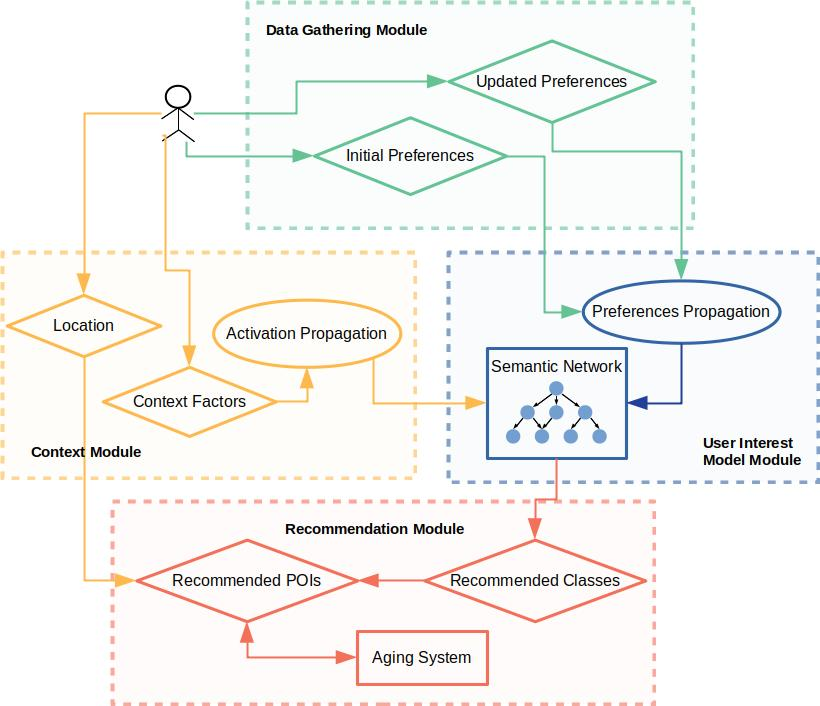
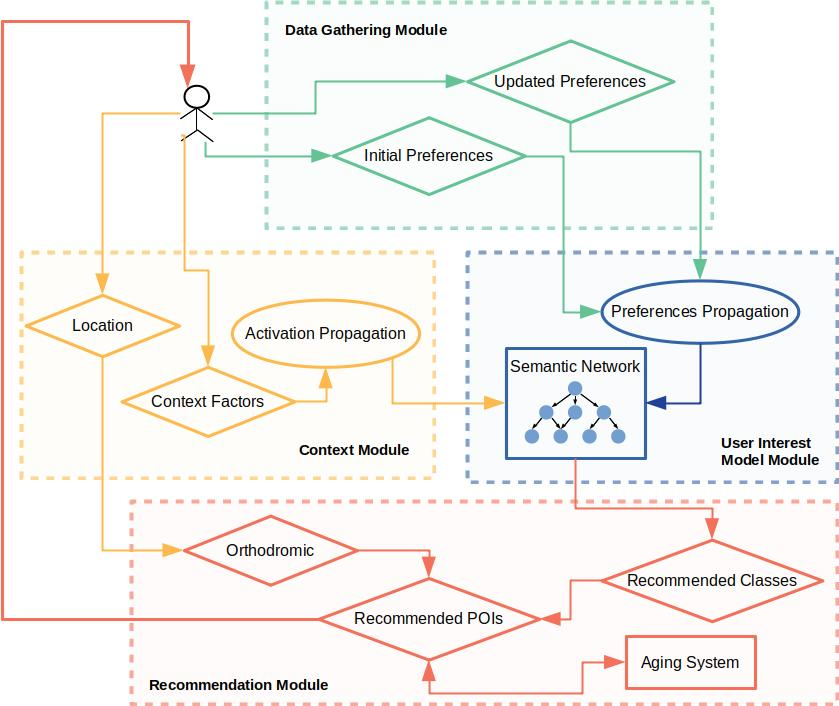
Improve Our Proposal

diff --git a/Proposal.tex b/Proposal.tex
@@ -18,39 +18,21 @@ In the following sections, we describe in detail each module.
 \label{fig:arquitecture}
 \end{figure}
 
+\subsection{Data Gathering Module}
+Initially, the system should receive initial \textbf{preferences}, as real values between $0$ and $1$, for the higher classes. To obtain these values, the user could explicitly set them by interacting with the system or they could be implicitly determined using data mining, social network analysis, geo-data, etc. During the lifetime of the system, the user can feed new updated preferences to the system.
 
-\textcolor{red}{A partir de aquí las subsecciones tienen como título cada módulo. Dentro de cada módulo vas explicando el flujo...Este módulo extrae las preferencias de los usuarios (implícita o explícitamente) .... y los algoritmos y estructuras de datos que usa.\\ 
-La idea es proponer una arquitectura general sin decir cómo se implementó, más bien decir eso, que las características de los usuarios se pueden extrer e manera implícita o explícit usando técnicas como NLP, etc. etc. Luego es la sección de experimentos si explica que el prototitpo desarrollo consider tal o cual cosa o se simula tal o cual cosa...\\
-Por ejemplo, falta algo como extracting/determining context dentro del módulo del contexto, que se encarga de identificar el contexto, sea implícitamente o explícitamente...\\
-Así vas explicando por módulo los algortimos, las estructuras usadas, las fórmulas, etc. y vas siguiendo el flujo del sistema.}
+\subsection{User Interest Model Module}
+Inspired on the work of Bahramian et al. \cite{bahramian_abbaspour_claramunt_2017}, we introduce the concept of \textbf{semantic network}: a tourism ontology extended with the user's preferences (see figure \ref{fig:initial_pref}) and context factor links, a concept we explain later (see figure \ref{fig:init_act}). Just like Bahramian et al. \cite{bahramian_abbaspour_claramunt_2017}, we take advantage of the hierarchical shape of the semantic network for propagating the preference of superclasses to subclasses. Alongside preferences, each node of the semantic network has a \textbf{confidence} related to the user, a real value between $0$ and $1$ that defines how sure is the system that the computed preference is the real one. For computing the preference and the confidence we use formula \ref{eq:preference} and formula \ref{eq:confidence}, respectively:
+\begin{equation} \label{eq:preference}
+    pref_c = \frac{\displaystyle \sum_{p \in ancestors(c)}{conf_p pref_p}}
+    {\displaystyle  \sum_{p \in ancestors(c)} {conf_p}}
+\end{equation}
+\begin{equation} \label{eq:confidence}
+    conf_c = \frac{\displaystyle \sum_{p \in ancestors(c)} {conf_p}}{|ancestors(c)|} - \alpha
+\end{equation}
+where $ancestors(c)$ is the set of ancestors of the ontology class $c$, $pref_c$ is the preference of the class $c$, $conf_c$ is the confidence of the class $c$ and $\alpha$ is the \textit{decrease rate} that will tell how much should decrease the \textit{confidence} at each level. 
 
-\subsection{Preliminaries}
-These definitions, abstractions and techniques are used:
-\begin{itemize}
-\item \textbf{Semantic Network}: Consists of the tourism ontology extended with user's preferences and context factors' relationships. There is a semantic network for each user.
-\item \textbf{Spreading Activation}: It is an algorithm able to take advantage of the hierarchical shape of the ontology (a Directed Acyclic Graph or DAG is formed) to propagate information related to the preferences over the different \textit{classes} of the semantic network.
-\item \textbf{Aging}: To increment recommendation \textit{serendipity} \cite{kotkov2016survey} and move further away from the immutable preference paradigm \cite{pagano2016contextual}, each Point of Interest or POI will age for a user each time it is recommended to them.
-\end{itemize}
-
-\subsection{Semantic Network} \label{section:semantic_network}
-
-Based on \cite{bahramian_abbaspour_claramunt_2017}, the proposed system extends the nodes of an ontology with the following properties:
-\begin{itemize}
-    \item \textbf{Preference}: Real value in $[0, 1]$ that corresponds to the user rating for the node's ontology class.
-    \item \textbf{Confidence}: Real value in $[0, 1]$ that defines how sure is the system about the user preference computed for the node. If the user explicitly specifies the preference of a node, the node's confidence should be $1$.
-    \item \textbf{Activation}: Taking into account the user's context, this value determines how feasible it is to go to the kind of places that belong to the node's ontology class.
-\end{itemize}{}
-Both \textit{preference} and \textit{confidence} are \textbf{persistent} node attributes, while \textit{activation} is a \textbf{transient} node attribute. As told before, the extended ontology is called \textit{semantic network}, and there is one instance for each system user.
- 
-\subsection{Preferences propagation} \label{section:preferences-propagation}
-Based on \cite{bahramian_abbaspour_claramunt_2017}, the steps for the preferences propagation are as follows:
-\begin{enumerate}
-    \item User gives a set of initial preferences for the high level classes (see figure \ref{fig:initial_pref}).
-    
-    \item Propagate preferences to the subclasses using formulas \ref{eq:preference} and \ref{eq:confidence} (see figure \ref{fig:pref_prop}).
-    
-    \item Go back to step (1) if user wants to update preferences and start preferences propagation again from a specific node as source.
-\end{enumerate}
+These formulas are applied to each node traversing from the higher classes, whose preferences are obtained from the Data Gathering Module, to the leaves. This process is called \textbf{preference propagation} and figures \ref{fig:initial_pref} and \ref{fig:pref_prop} show an example.
 
 \begin{figure}[h]
 \centering
@@ -62,41 +44,22 @@ Based on \cite{bahramian_abbaspour_claramunt_2017}, the steps for the preference
 \begin{figure}[h]
 \centering
 \includegraphics[scale=0.5]{draws/pref_spred.jpg}
-\caption{Preference propagation for "Museum", "Art Gallery", "Souvenirs", "Stadium" and "Golf" classes, with propagation rate equal to 0.1}
+\caption{Preference propagation for "Museum", "Art Gallery", "Souvenirs", "Stadium" and "Golf" classes, with decrease rate equal to 0.1}
 \label{fig:pref_prop}
 \end{figure}
 
-\subsection{Context factors} \label{section:context_factors}
-As told before, \textit{context factors} are entities that describe the characteristics of the user's context that could affect their decision to go to a specific place. Our system's factors are: 
-\begin{itemize}
-    \item \textit{Weather} (sunny/cloudless, rainy or snowy)
-    \item \textit{Time} (early morning, morning, afternoon or night)
-    \item \textit{Day} (weekday or weekend)
-\end{itemize}
-Following the ideas from \cite{bahramian_abbaspour_claramunt_2017}, these context factors are linked to a subset of "high level" ontology classes, that generalize enough our domain. 
+\subsection{Context Module}
+We define the \textbf{activation} of a node as the value that determines how feasible it is to go to a place that belongs to the node's ontology class in the current user's context. The user's context is determined by the \textbf{context factors}, entities that describe the characteristics of the user’s context that could affect their decision to go to a specific place. The context factors could be time, day and weather, as proposed by Bahramian \cite{bahramian_abbaspour_claramunt_2017}, but many others could be used, like transportation\cite{rajaonarivo2019rec} and mood. These entities are linked to the higher classes.
 
-\subsection{Context-awareness} \label{section:context-awareness}
-Remembering the new definition of \textit{activation} on section \ref{section:semantic_network}, the formula \ref{eq:og_activation} is updated as follows:
-\begin{equation} \label{eq:activation}
-    act_c = \frac{\displaystyle \sum_{c' \in ancestors(c)} a_{c'}}{|ancestors(c)|}
-\end{equation}
-where $act_c$ is the activation for node $c$ and $ancestors(c)$ is the set of direct ancestors of node $c$. It could be seen as an averaged version of formula \ref{eq:og_activation} always using $w$ as $1$.
-
-Let's define $f_x$ the \textit{fulfillment} of a context factor $x$ that has the value $1$ if $x$ fulfills or $0$ otherwise. Let's also define $r_{c,x}$ as the \textit{relevance} of context factor $x$ for node $c$, which is a real value in $[0, 2]$ that specifies how much the context factor can affect the decision to go to a POI that belongs to the node's ontology class; a value of $1$ means indifference; a value near $2$ means the fulfillment increases the wish to go to the POI; a value near $0$ means the fulfillment decreases the wish to go the POI. 
-
-Now we define the activation for a node whose class $c$ is directly linked to the context factors (see section \ref{section:context_factors}):
+Let's define $f_x$ the \textit{fulfillment} of a context factor $x$ that has the value $1$ if $x$ fulfills or $0$ otherwise. Let's also define $r_{c,x}$ as the \textit{relevance} of context factor $x$ for node $c$, which is a real value in $[0, 2]$ that specifies how much the context factor can affect the decision to go to a POI that belongs to the node's ontology class; a value of $1$ means indifference; a value near $2$ means the fulfillment increases the wish to go to the POI; a value near $0$ means the fulfillment decreases the wish to go the POI. Hence, we define the activation for a node whose class $c$ is directly linked to the context factors:
 \begin{equation} \label{eq:high_activation}
     act_c = \sum_{x \in contextFactors} r_{c,x} f_x
 \end{equation}
-
-Now we can define the steps for activation propagation as follows:
-\begin{enumerate}
-    \item The system receives information about the fulfillment of the context factors (see figure \ref{fig:init_act}). For example, it receives the vector \textit{(sunny, night, weekend)}, stating that it is a sunny day, in the early morning on a weekend.
-    
-    \item Compute activation for classes that are directly linked to the context factors using formula \ref{eq:high_activation} (see figure \ref{fig:high_act}).
-    
-    \item Propagate activation to subclasses using formula \ref{eq:activation} (see figure \ref{fig:spread_act}).
-\end{enumerate}
+and the activation for the internal nodes is defined as follows:
+\begin{equation} \label{eq:activation}
+    act_c = \frac{\displaystyle \sum_{c' \in ancestors(c)} act_{c'}}{|ancestors(c)|}
+\end{equation}.
+These formulas are used for an \textbf{activation propagation} from the higher classes. Figures \ref{fig:init_act}, \ref{fig:high_act} and \ref{fig:spread_act} show an example.
 
 \begin{figure}[h]
 \centering
@@ -119,13 +82,15 @@ Now we can define the steps for activation propagation as follows:
 \label{fig:spread_act}
 \end{figure}
 
-\subsection{Recommender algorithm}
+Furthermore, this module receives the user's \textbf{location}, which will be used for querying near POIs.
 
-We will first give two necessary definitions to compute the final score of an item and then we give the formula for computing the final score.
+\subsection{Recommendation Module}
 
-\subsubsection{Aging}
+We will first give two necessary definitions to compute the final score of an item and then we give the formula.
 
-Let's define $\eta_p$ as the POI $p$'s aging, initialized on $\eta_p = 1$. Let's define $H$ as the \textit{aging rate}. Each time a POI $p$ is recommended to the user, $\eta_p$ decreases by $H$. When $\eta_p < 0.1$, its aging value is reset to $1$. 
+\subsubsection{Aging System}
+
+Let's define $\eta_p$ as the POI $p$'s aging, initialized on $\eta_p = 1$. Let's define $H$ as the \textit{aging rate}. Each time a POI $p$ is recommended to the user, $\eta_p$ decreases by $H$. When $\eta_p < 0.1$, $\eta_p$ is reset to $1$. 
 
 \subsubsection{Great-Circle distance}
 Since the euclidean distance between two points on Earth would cross through the surface, we should use a more convenient measurement of distance: the \textit{great-circle distance} or \textit{orthodromic distance}. It is the shortest distance, along the surface of a sphere, between two points on the surface of the sphere. It is measured with circles on the sphere whose centers coincide with the center of the sphere. Those circles are called \textit{great-circles}. If we assume Earth is a perfect sphere and hence use Great-Circle distance, we get distances with errors no more than $0.5\%$ according to \cite{1997admiralty}. 

diff --git a/StudyCase.tex b/StudyCase.tex
@@ -1,5 +1,5 @@
 \section{Study case: experiments and evaluation} \label{section:study-case}
-To evaluate our system we need some initial data to define the \textit{relevances} (see section \ref{section:context-awareness}) and some (real or simulated) users to test with.
+To evaluate our system we need some initial data to define the \textit{relevances} and some (real or simulated) users to test with.
 
 The prototype system was built with Java. We used a Fuseki server as the triplestore, Apache Jena for traversing the ontology and connecting to the triplestore and a MySQL database for storing additional information of the nodes and items.
 
@@ -48,7 +48,7 @@ $$AVG(column)/5$$
 The form had a total of 34 answers. Something worth to mention was that the answers were concentrated between the options $0$, $5$ and $10$, maybe because it is easier to think something between the thoughts "I would not", "I don't care" and "I would", than to think something that is in the middle of two of those thoughts.
 
 \subsection{Users data}
-As explained before (see section \ref{section:preferences-propagation}), a user of the system have to give initial preferences to some ontology classes. It was decided to make a form where people could answer their preferences of the high level ontology classes mentioned before. The form had a total of 63 answers. The genre, country, profession, age and (optional) social networks were also asked to have more information for further work. The answer should be integers on range $[1, 10]$. Again, answers were more concentrated on the middle and highest options, but there were few low answers.
+As explained before, a user of the system have to give initial preferences to some ontology classes. It was decided to make a form where people could answer their preferences of the high level ontology classes mentioned before. The form had a total of 63 answers. The genre, country, profession, age and (optional) social networks were also asked to have more information for further work. The answer should be integers on range $[1, 10]$. Again, answers were more concentrated on the middle and highest options, but there were few low answers.
 
 \subsubsection{Simulated scenarios}
 To evaluate the system, it was decided to test it with simulated scenarios (simulated contexts and simulated users). A set of centroids of a set of clusters were chosen as the set of simulated users. The \textit{K-Means} algorithm was used to get the clusters and the \textit{Elbow Method} (see figure \ref{fig:elbow}) was used to choose $4$ as the number of clusters.
@@ -131,7 +131,7 @@ For each centroid of the clusters mentioned previously, we simulate two visits t
     dist_{u, R} = \frac{ \displaystyle \sum_{p \in R}{dist_{u, p}} }{| R |}
 \end{equation}
 
-To compute novelty \cite{kotkov2016survey} we use the metric mentioned on section \ref{section:serendipity}, which is adapted as follows:
+To compute novelty \cite{kotkov2016survey} we use the following metric:
 \begin{equation} \label{eq:novelty}
     nov_{u, p} = \  \underaccent{q \in rec(u)}{min} \  ( dist( c_p, c_q ) )
 \end{equation}
